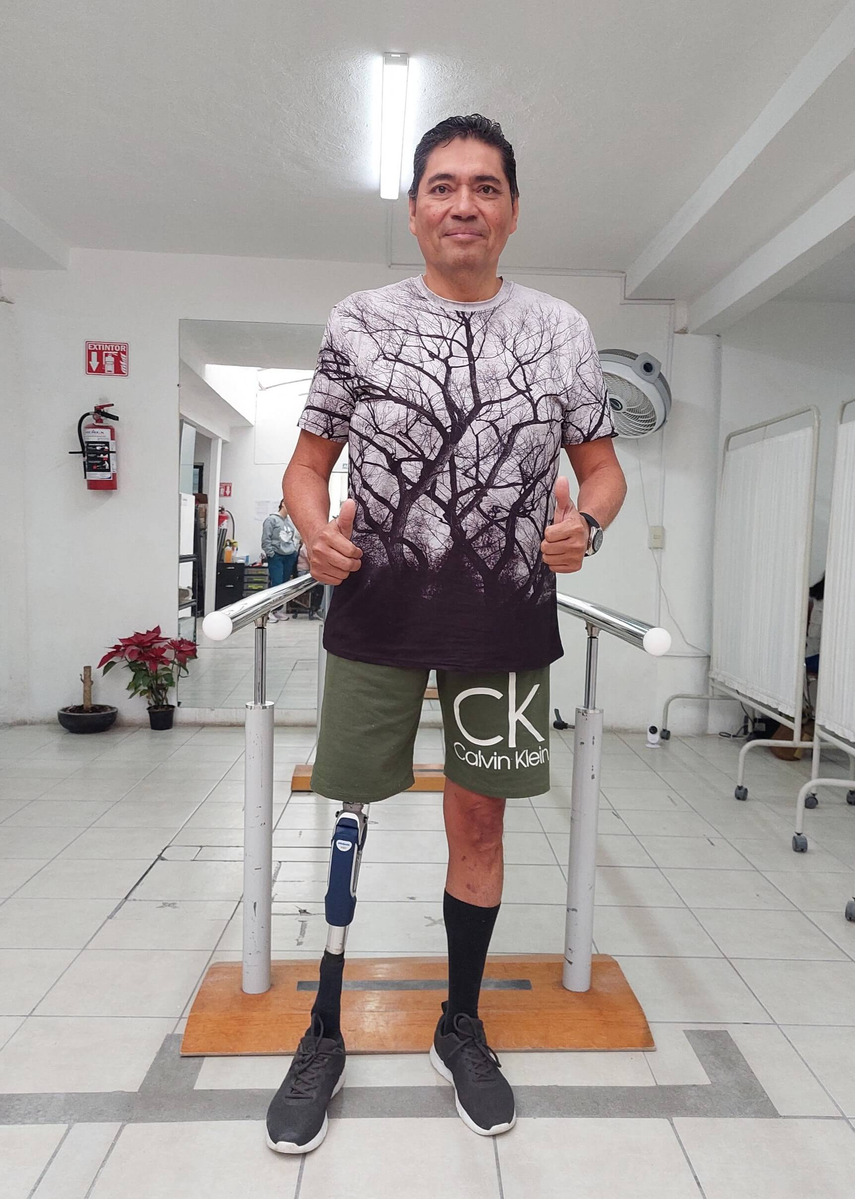
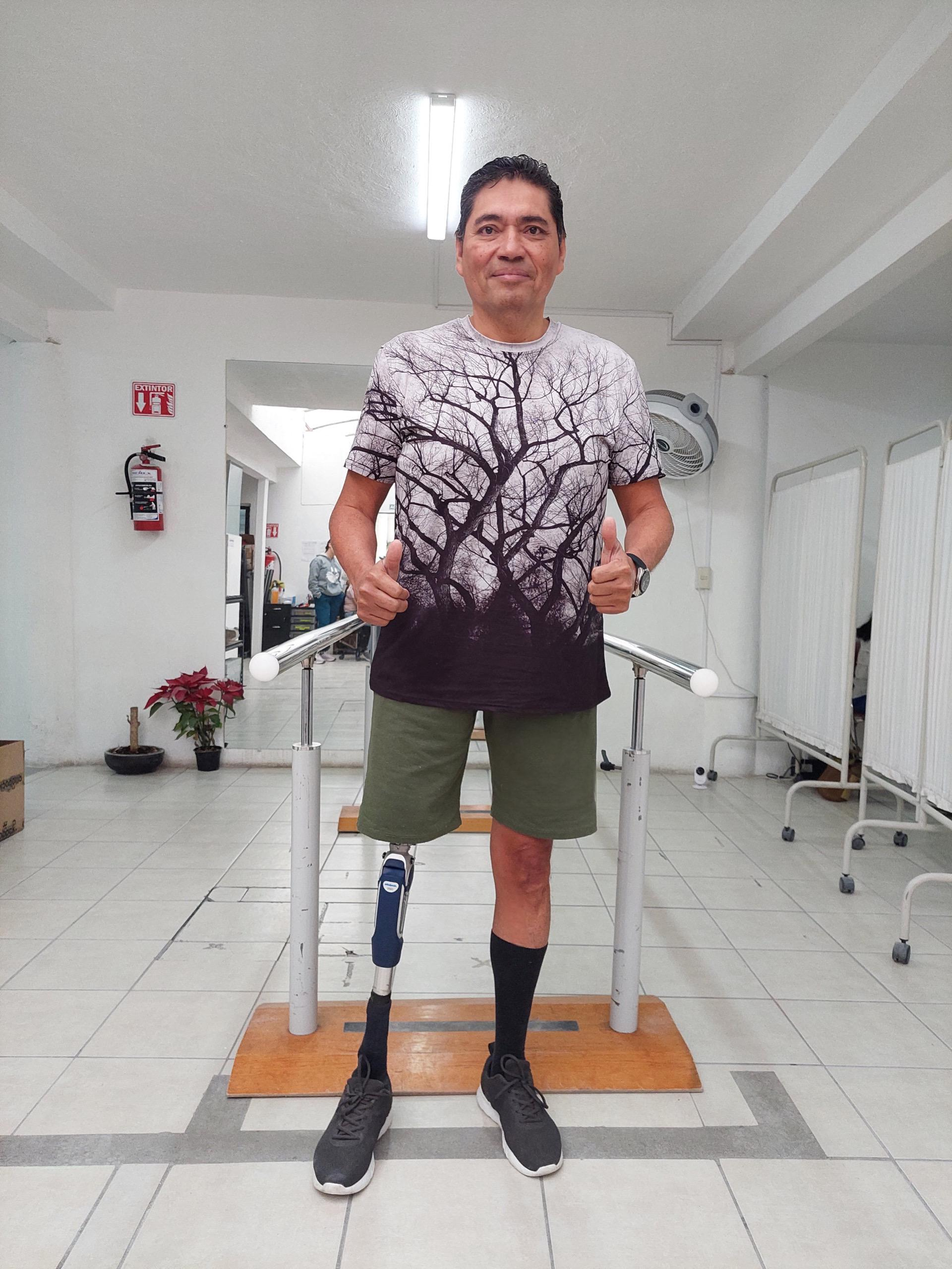
cambio imagenes protesis y path para imagenes en products.jsx

diff --git a/proactibleNewVersion/src/assets/products.jsx b/proactibleNewVersion/src/assets/products.jsx
@@ -1,36 +1,65 @@
 // Data for the products in the "VentaComponentes" page
 
+//Liner imports
+import LinerMarcaAlps from "./images/venta_componentes_imgs/liner.png";
+import LinerSkeoSkinguard from "./images/venta_componentes_imgs/linear_skeo.png";
+import LinerALPSSuperiorPerformance from "./images/venta_componentes_imgs/Liner_ALPS_supPerformance.png";
+import LinerComfortSilBasicStreifeneider from "./images/venta_componentes_imgs/Liner_ComfortSil.png";
+import LinerIcerossSeal from "./images/venta_componentes_imgs/Liner_Iceross_Seal.png";
+
+//Rodilla imports
+import Rodilla3R80 from "./images/venta_componentes_imgs/rodilla_3R80.png";
+import Rodilla3R60 from "./images/venta_componentes_imgs/rodilla3R60.jpg";
+import Rodilla3I15 from "./images/venta_componentes_imgs/rodilla3I15.jpg";
+
+//Pie imports
+import PieBalanceFootJ from "./images/venta_componentes_imgs/pie_balance_foot_J.png";
+import PieTaleo from "./images/venta_componentes_imgs/pie_Taleo.png";
+import PieConArtiuclacion from "./images/venta_componentes_imgs/pie_articulacion.png";
+import PieSach from "./images/venta_componentes_imgs/pie_sach.png";
+import PieArticuladoTitanio from "./images/venta_componentes_imgs/pie_titanio.png";
+import PieRush from "./images/venta_componentes_imgs/pie_rush.jpg";
+
+//Bolsa imports
+import BolsaFacilColocacion from "./images/venta_componentes_imgs/bolsa_facil_colocacion.png";
+
+
+//Funda protectora imports
+import FundaProtectoraConfetti from "./images/venta_componentes_imgs/fundaprotectora_confetti.png";
+
+//Valvula imports
+import ValvulaP from "./images/venta_componentes_imgs/valvula_p.png";
+
+//Manga imports
+import MangaNeopreno from "./images/venta_componentes_imgs/manga_neopreno.png";
 
 const productData = [
   {
     titulo: "Liner de la marca ALPS",
     descripcion:
       "Contamos con diferentes diseños acordes al tipo de actividad y muñón, así como grosor de 3mm o 6mm.",
-    imagePath: "/src/assets/images/venta_componentes_imgs/liner.png",
+    imagePath: LinerMarcaAlps,
     categoria: "Liner",
   },
   {
     titulo: "Liner Skeo Skinguard",
     descripcion:
       "Los beneficios que tiene el Liner Skeo Skinguard son los siguientes: Tiene partículas antibacterianas que ayudan a evitar que las bacterias se multipliquen y protegen el material de silicona. Cuenta con un mejor control del olor causado por las bacterias. La piel no es afectada por el aditivo antibacterial.P004.",
-    imagePath:
-      "src/assets/images/venta_componentes_imgs/linear_skeo.png",
+    imagePath: LinerSkeoSkinguard,
     categoria: "Liner",
   },
   {
     titulo: "Liner ALPS superior performance",
     descripcion:
       "Liner ALPS superior performance para amputación transtibial, disponible en varias tallas. NO INCLUYE ENVÍO. En caso de contar con el programa de garantía de Proactible se aplicará un 10% dedescuento.",
-    imagePath:
-      "src/assets/images/venta_componentes_imgs/Liner_ALPS_supPerformance.png",
+    imagePath: LinerALPSSuperiorPerformance,
     categoria: "Liner",
   },
   {
     titulo: "Liner ComfortSil. Basic Streifeneider",
     descripcion:
       "De silicona especialmente blanda de 3 mm. Comodidad óptima y agradable amortiguación. Tejido de punto de una sola pieza para facilitar el enrollado y desenrollado del liner. Matriz externa distal con tejido de punto de 10 cm, reduce el trazo distal. Franja vertical tejida en la parte delantera para una mejor orientación al vestirse. El control de rotación distal favorece a la conducción de la prótesis de pierna. Cuenta con descuento con garantía extendida.",
-    imagePath:
-      "src/assets/images/venta_componentes_imgs/Liner_ComfortSil.png",
+    imagePath: LinerComfortSilBasicStreifeneider,
     categoria: "Liner",
   },
 
@@ -38,68 +67,69 @@ const productData = [
     titulo: "Liner Iceross Seal In- Transfemoral",
     descripcion:
       "El liner Iceross Seal-In TF ofrece seguridad y libertad de movimiento para usuarios con amputación transfemoral y elevado nivel de actividad.Ya que cuenta con una resistente cubierta de tela que permite la expansión radial y una cómoda elasticidad",
-    imagePath:
-      "src/assets/images/venta_componentes_imgs/Liner_Iceross_Seal.png",
+    imagePath: LinerIcerossSeal,
     categoria: "Liner",
   },
   {
     titulo: "Rodilla 3R80",
     descripcion:
       "Resistente al agua hasta una profundidad de 3 metros y cuenta con un bloqueo manual para una seguridad aún mayor precisamente en entornos mojados.",
-    imagePath:
-      "src/assets/images/venta_componentes_imgs/rodilla_3R80.png",
+    imagePath: Rodilla3R80,
+    categoria: "Rodilla",
+  },
+  {
+    titulo: "Rodilla 3R60",
+    descripcion:
+      "Rodilla policéntrica. La rodilla 3R60 te permite caminar bien de nuevo, segurirdad potenciada, caminar por terrenos irregulares y pendientes, al igual que sentarse y arrodillarse relajadamente Su nivel de movilidad es de 2, 3. Peso corporal máx: 125kg.",
+    imagePath: Rodilla3R60,
+    categoria: "Rodilla",
+  },
+  {
+    titulo: "Rodilla 3I15",
+    descripcion: "La rodilla monocéntrica modular 3I15 tiene movilidad 1,2.",
+    imagePath: Rodilla3I15,
     categoria: "Rodilla",
   },
   {
     titulo: "Pie Balance Foot J",
     descripcion:
       "Es un pie ligero, para personas que caminan más despacio. Ofrece excelente estabilidad y apoyo.",
-    imagePath:
-      "src/assets/images/venta_componentes_imgs/pie_balance_foot_J.png",
+    imagePath: PieBalanceFootJ,
     categoria: "Pie",
   },
   {
     titulo: "Pie Taleo",
     descripcion:
       " Pie prótesico de material compuesto. Talla 22 a 30.Transmite una sensación natural y agradable. Es resistente al agua.",
-    imagePath: "src/assets/images/venta_componentes_imgs/pie_Taleo.png",
+    imagePath: PieTaleo,
     categoria: "Pie",
-  },
-  {
-    titulo: "Funda protectora CONFETTI II CANVAS",
-    descripcion:
-      "Funda protectora para prótesis transfemoral de la marca ID ethnos. Pesa aproximadamente 400 gramos, es compatible con varias rodillas y resistente contra el agua. CP006.",
-    imagePath:
-      "src/assets/images/venta_componentes_imgs/fundaprotectora_confetti.png",
-    categoria: "Funda protectora",
-  },
-  {
-    titulo: "Válvula Pushvalve",
-    descripcion: "21Y14",
-    imagePath: "src/assets/images/venta_componentes_imgs/valvula_p.png",
-    categoria: "Válvula",
-  },
-  {
-    titulo: "Manga de Neopreno",
-    descripcion:
-      "Manga de neopreno para prótesis transtibial. Tallas 1.0 a 3.5. Cuenta con descuento con garantía extendida.",
-    imagePath:
-      "src/assets/images/venta_componentes_imgs/manga_neopreno.png",
-    categoria: "Manga",
   },
   {
     titulo: "Pie con articulación",
     descripcion:
       " Pie con articulación de acero. Tallas 22 a 30. Cuenta con descuento en caso de tener garantía extendida.",
-    imagePath:
-      "src/assets/images/venta_componentes_imgs/pie_articulacion.png",
+    imagePath: PieConArtiuclacion,
     categoria: "Pie",
   },
   {
     titulo: "Pie Sach",
     descripcion:
       "Pie de tobillo sólido  madera. Talla 21 a 28. Con partido de sandalia. Hecho en México. Cuenta con descuento con garantía extendida.",
-    imagePath: "src/assets/images/venta_componentes_imgs/pie_sach.png",
+    imagePath: PieSach,
+    categoria: "Pie",
+  },
+  {
+    titulo: "Pie articulado de titanio (Single Axis)",
+    descripcion:
+      "Pie con articulación de titanio. Tallas 22 a 28. Cuenta con descuento en caso de tener garantía extendida.",
+    imagePath: PieArticuladoTitanio,
+    categoria: "Pie",
+  },
+  {
+    titulo: "Pie Rush",
+    descripcion:
+      "El pie rush proporciona el movimiento de pie y tobillo más realista y receptivo disponible. Fabricado con un compuesto de vidrio de ingeniería avanzada, que es tres veces más flexible que la mayoría de las prótesis de pie convencionales.",
+    imagePath: PieRush,
     categoria: "Pie",
   },
   {
@@ -107,37 +137,29 @@ const productData = [
     descripcion:
       "Bolsa de fácil colocación de prótesis para amputación transfemoral (por arriba de rodilla).",
     imagePath:
-      "src/assets/images/venta_componentes_imgs/bolsa_facil_colocacion.png",
+      BolsaFacilColocacion,
     categoria: "Bolsa",
   },
   {
-    titulo: "Pie articulado de titanio (Single Axis)",
+    titulo: "Funda protectora CONFETTI II CANVAS",
     descripcion:
-      "Pie con articulación de titanio. Tallas 22 a 28. Cuenta con descuento en caso de tener garantía extendida.",
+      "Funda protectora para prótesis transfemoral de la marca ID ethnos. Pesa aproximadamente 400 gramos, es compatible con varias rodillas y resistente contra el agua. CP006.",
     imagePath:
-      "src/assets/images/venta_componentes_imgs/pie_titanio.png",
-    categoria: "Pie",
+      FundaProtectoraConfetti,
+    categoria: "Funda protectora",
   },
   {
-    titulo: "Rodilla 3R60",
+    titulo: "Válvula Pushvalve",
+    descripcion: "21Y14",
+    imagePath: ValvulaP,
+    categoria: "Válvula",
+  },
+  {
+    titulo: "Manga de Neopreno",
     descripcion:
-      "Rodilla policéntrica. La rodilla 3R60 te permite caminar bien de nuevo, segurirdad potenciada, caminar por terrenos irregulares y pendientes, al igual que sentarse y arrodillarse relajadamente Su nivel de movilidad es de 2, 3. Peso corporal máx: 125kg.",
-    imagePath:
-      "src/assets/images/venta_componentes_imgs/rodilla3R60.jpg",
-    categoria: "Rodilla",
-  },
-  {
-    titulo: "Pie Rush",
-    descripcion:
-      "El pie rush proporciona el movimiento de pie y tobillo más realista y receptivo disponible. Fabricado con un compuesto de vidrio de ingeniería avanzada, que es tres veces más flexible que la mayoría de las prótesis de pie convencionales.",
-    imagePath: "src/assets/images/venta_componentes_imgs/pie_rush.jpg",
-    categoria: "Pie",
-  },
-  {
-    titulo: "Rodilla 3I15",
-    descripcion:"La rodilla monocéntrica modular 3I15 tiene movilidad 1,2.",
-    imagePath: "src/assets/images/venta_componentes_imgs/rodilla3I15.jpg",
-    categoria: "Rodilla",
+      "Manga de neopreno para prótesis transtibial. Tallas 1.0 a 3.5. Cuenta con descuento con garantía extendida.",
+    imagePath: MangaNeopreno,
+    categoria: "Manga",
   },
 ];
 

diff --git a/proactibleNewVersion/src/pages/servicios_paginas/Protesis.jsx b/proactibleNewVersion/src/pages/servicios_paginas/Protesis.jsx
@@ -71,7 +71,7 @@ export default function Protesis() {
             <img
               src={protesis_transtibial}
               alt="Prótesis transtibial"
-              className="w-full h-[150px] object-cover object-bottom md:object-center md:h-auto rounded-lg md:shadow-md"
+              className="w-full object-cover object-bottom md:object-center md:h-auto rounded-lg md:shadow-md"
             />
           </div>
         </div>
@@ -83,7 +83,7 @@ export default function Protesis() {
             <img
               src={protesis_transfemoral}
               alt="Prótesis transfemoral"
-              className="w-full h-[150px] object-cover object-bottom md:object-center md:h-auto rounded-lg md:shadow-md"
+              className="w-full object-cover object-bottom md:object-center md:h-auto rounded-lg md:shadow-md"
             />
           </div>
           {/* Text */}
@@ -117,7 +117,7 @@ export default function Protesis() {
             <img
               src={protesis_bilateral}
               alt="Prótesis bilateral"
-              className="w-full h-[150px] object-cover object-bottom md:object-center md:h-auto rounded-lg md:shadow-md"
+              className="w-full object-cover object-bottom md:object-center md:h-auto rounded-lg md:shadow-md"
             />
           </div>
         </div>
